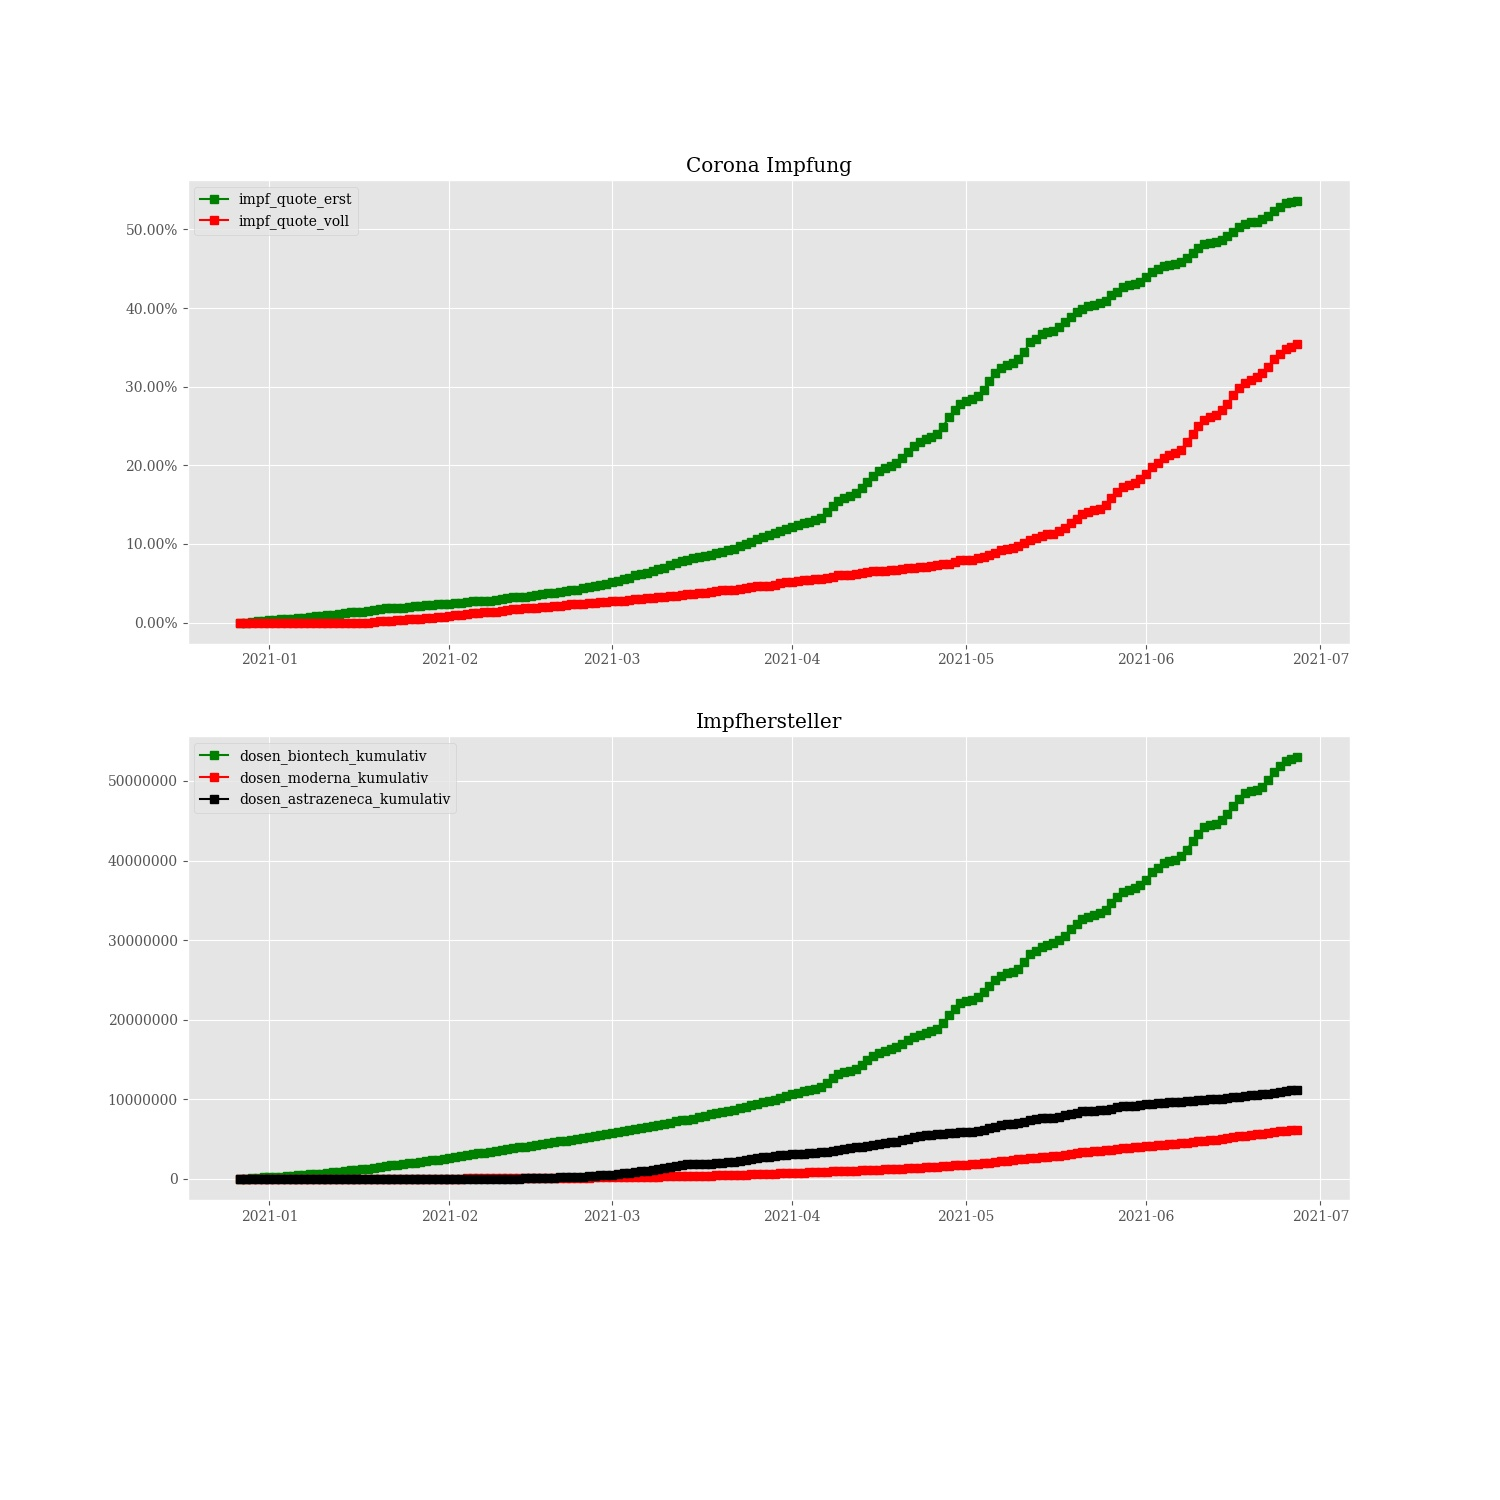
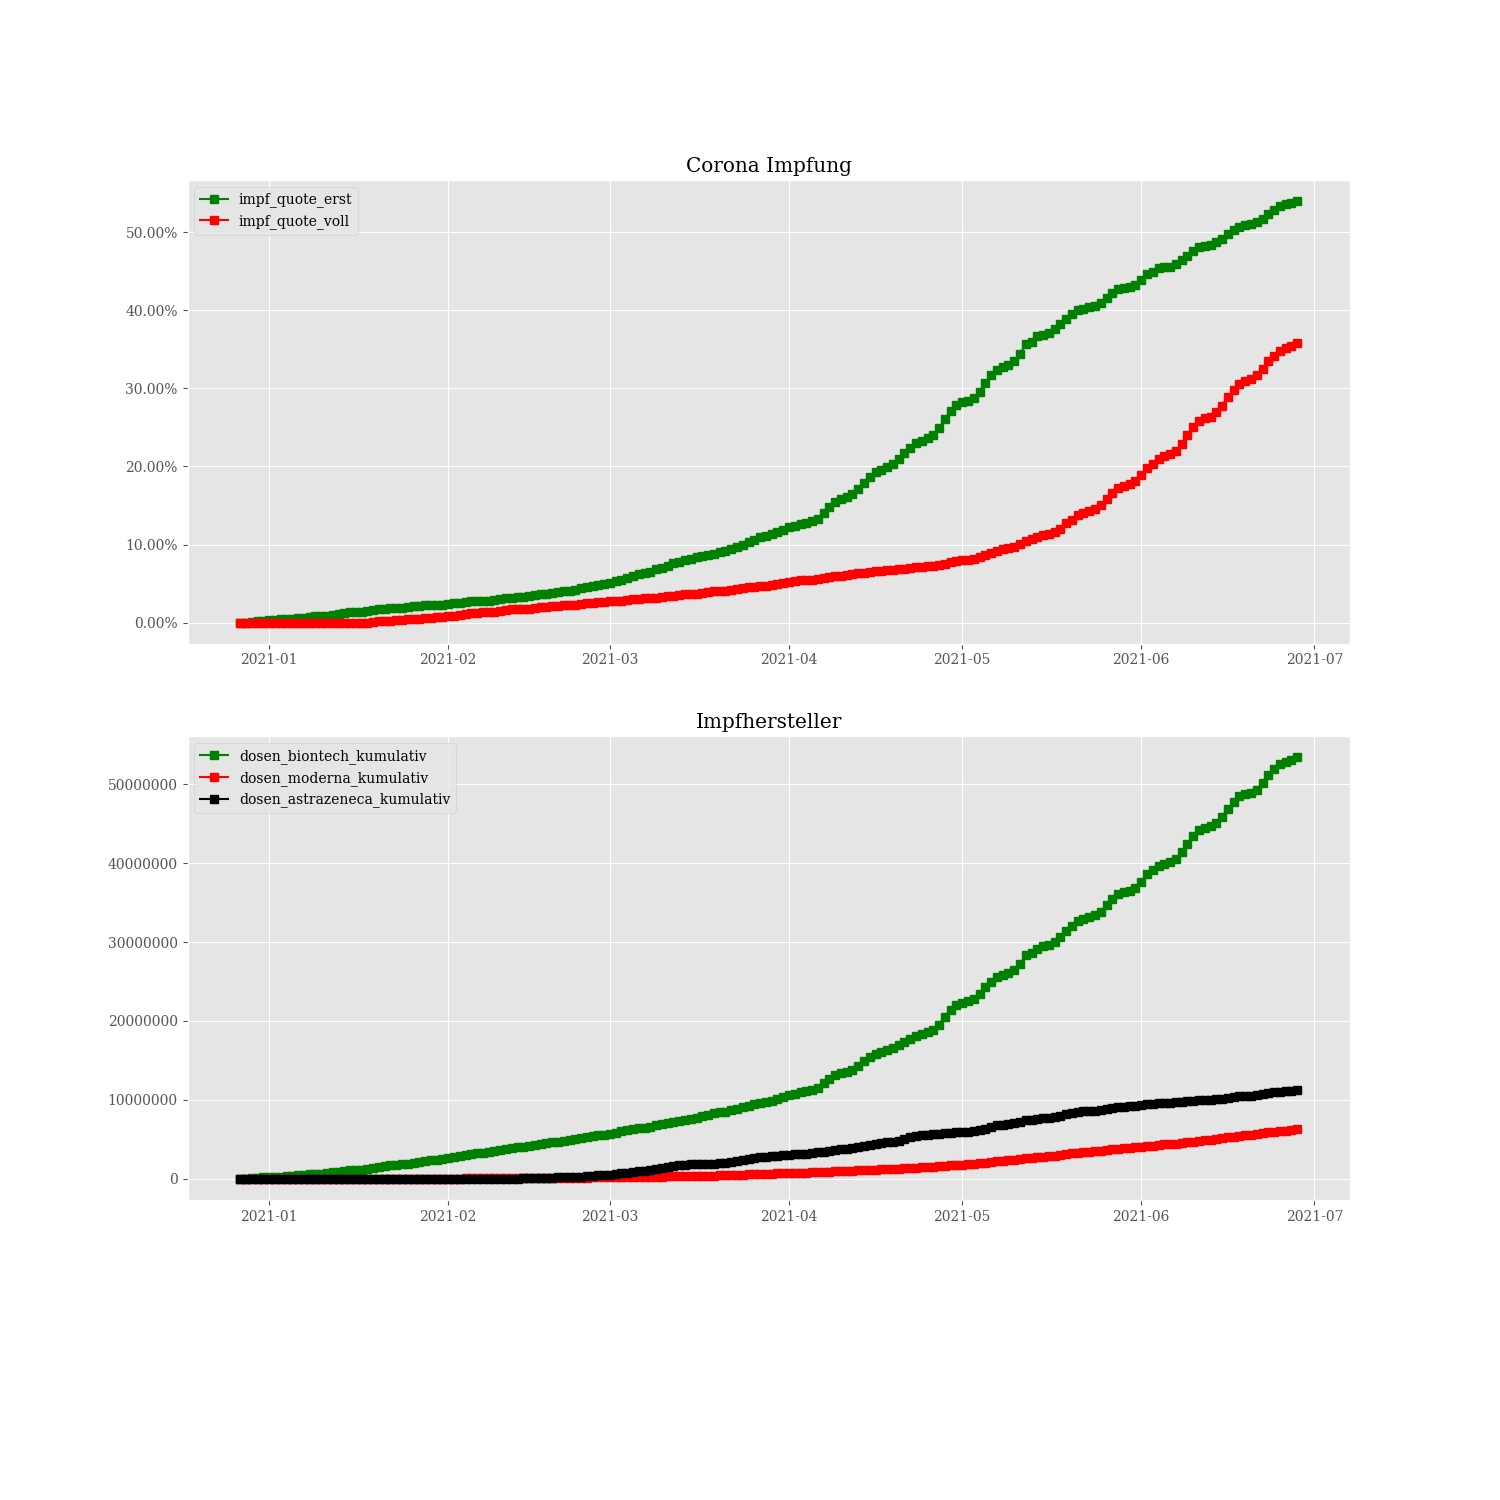
Crontab commit

diff --git a/Readme.md b/Readme.md
@@ -1,19 +1,19 @@
-# Corona vaccine Germany - Stand 2021-06-27
+# Corona vaccine Germany - Stand 2021-06-28
 ## Dashboard by [Simon Hamacher](https://www.shamacher.eu)
 ## Impfstoffe Übersicht
 **Impfstoffhersteller** | **verimpfte Dosen**
 -------- | :--------:
-Biontech | 52956535
-Moderna | 6170590
-Astrazeneca | 11168669
+Biontech | 53369718
+Moderna | 6263894
+Astrazeneca | 11289744
 
 
 ## Quoten
-**Total Verimpfte Dosen:** | |70295794&nbsp;
+**Total Verimpfte Dosen:** | |70923356&nbsp;
 -------- | :--------:| :--------:
-**Erst-Impfquote** | **53.62** %| **44608624** Personen
-**Voll-Impfquote** | **35.34** %| **29403338** Personen
-**Imfungen Durchschnitt** | |**394283.49** pro Tag 
+**Erst-Impfquote** | **53.96** %| **44886784** Personen
+**Voll-Impfquote** | **35.83** %| **29803258** Personen
+**Imfungen Durchschnitt** | |**395688.58** pro Tag 
 ## Bundesländer
 **Bundesland** | **Prozent von gelieferten Imfdosen verimpft**
 -------- | :--------:
